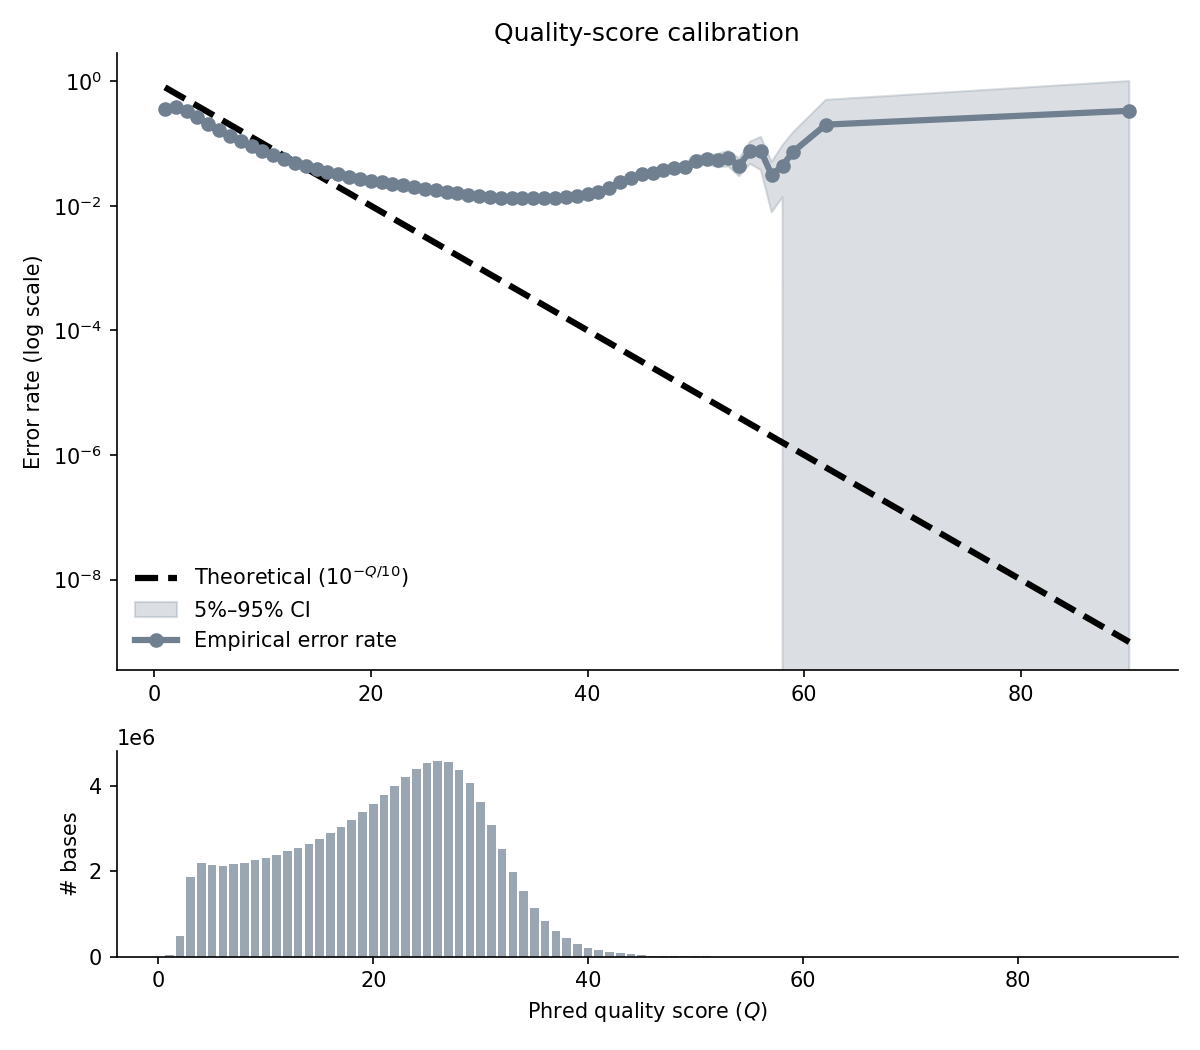
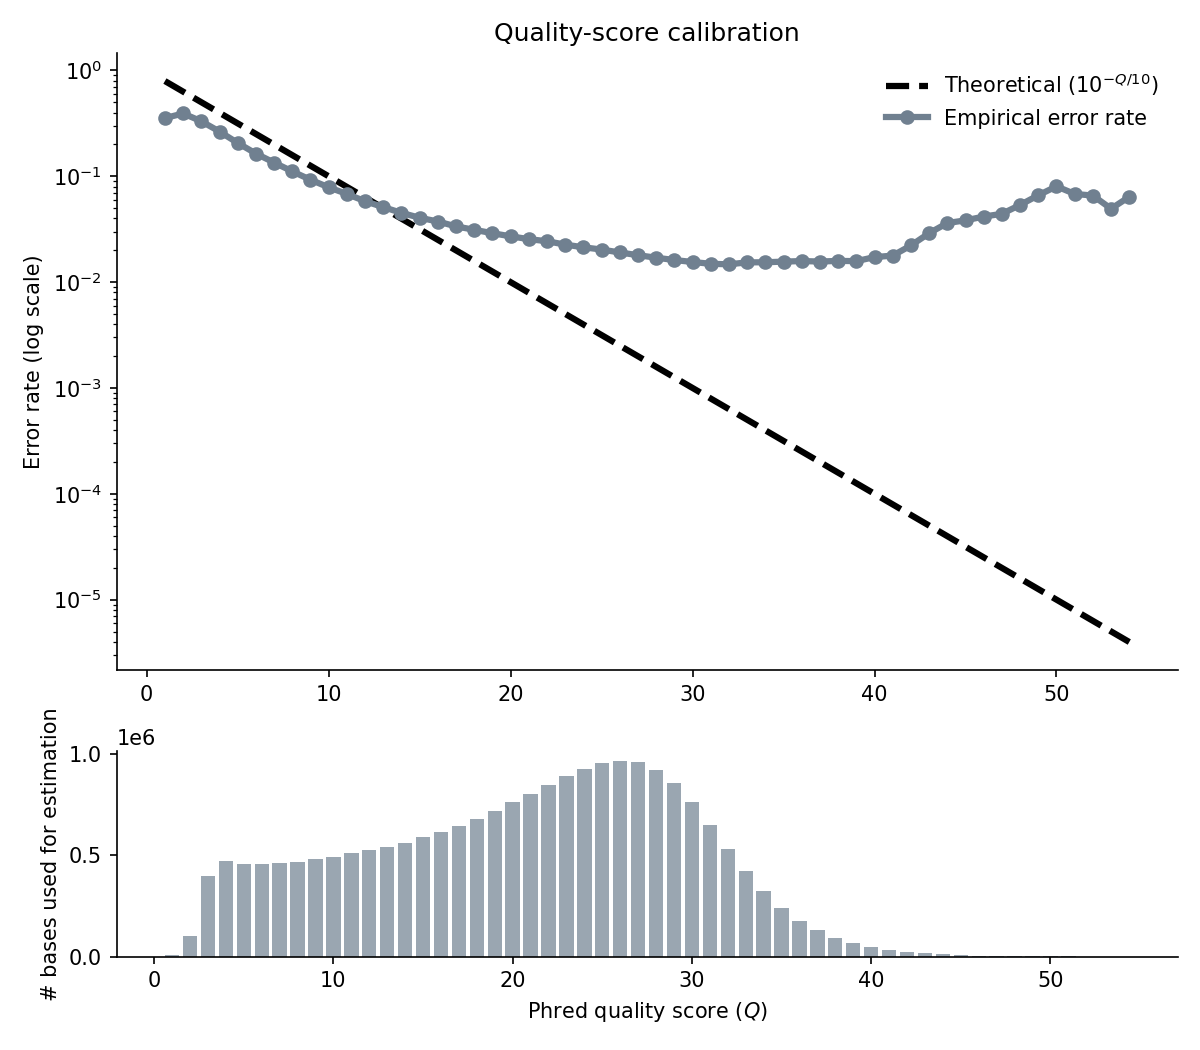
Adjust plotting script

diff --git a/src/summary.rs b/src/summary.rs
@@ -15,6 +15,7 @@ pub struct ErrorSummary {
     pub value_strings: Vec<String>,
     pub homopolymer_lengths: Vec<u32>,
     pub error_counts_per_key: Vec<HashMap<NeighborInfo, u32>>,
+    pub forward_error_counts_per_key: Vec<HashMap<NeighborInfo, u32>>,
     v: usize,
 }
 
@@ -29,6 +30,7 @@ impl ErrorSummary {
             value_strings: Vec::new(),
             homopolymer_lengths: Vec::new(),
             error_counts_per_key: Vec::new(),
+            forward_error_counts_per_key: Vec::new(),
             v,
         }
     }
@@ -99,6 +101,7 @@ impl ErrorSummary {
             .collect();
 
         let mut error_count_map: HashMap<NeighborInfo, u32> = HashMap::new();
+        let mut forward_error_count_map: HashMap<NeighborInfo, u32> = HashMap::new();
         let mut num_neighbors: u32 = 0;
         for (value, info_list) in value_map {
             let count = info_list.len() as u32;
@@ -106,6 +109,8 @@ impl ErrorSummary {
                 if let Some(info) = neighbors.get(value) {
                     *error_count_map.entry(*info).or_insert(0) += count;
                     num_neighbors += count;
+                    let forward_count = info_list.iter().filter(|i| i.is_forward).count() as u32;
+                    *forward_error_count_map.entry(*info).or_insert(0) += forward_count;
                 }
             }
         }
@@ -123,6 +128,7 @@ impl ErrorSummary {
         self.value_strings.push(value_string);
         self.homopolymer_lengths.push(homopolymer_length);
         self.error_counts_per_key.push(error_count_map);
+        self.forward_error_counts_per_key.push(forward_error_count_map);
 
         true
     }
@@ -176,6 +182,7 @@ impl ErrorSummary {
 /// Corresponds to `KVmerStats` field: `error_counts`.
 pub struct ErrorSpectrumSummary {
     pub error_counts: Vec<HashMap<NeighborInfo, u32>>,
+    pub forward_error_counts: Vec<HashMap<NeighborInfo, u32>>,
     v: usize,
 }
 
@@ -183,18 +190,20 @@ impl ErrorSpectrumSummary {
     pub fn new(v: usize) -> Self {
         ErrorSpectrumSummary {
             error_counts: Vec::new(),
+            forward_error_counts: Vec::new(),
             v,
         }
     }
 
     /// Accumulate one key's per-operation error counts.
-    pub fn update(&mut self, error_map: HashMap<NeighborInfo, u32>) {
+    pub fn update(&mut self, error_map: HashMap<NeighborInfo, u32>, forward_error_map: HashMap<NeighborInfo, u32>) {
         self.error_counts.push(error_map);
+        self.forward_error_counts.push(forward_error_map);
     }
 }
 
 impl ErrorSpectrumSummary {
-    pub fn to_csv(&self, indices: Option<&[usize]>) -> String {
+    pub fn to_dependence_on_v_csv(&self, indices: Option<&[usize]>) -> String {
         use std::fmt::Write;
         let all: Vec<usize>;
         let indices = match indices {
@@ -240,6 +249,49 @@ impl ErrorSpectrumSummary {
         }
         out
     }
+
+    pub fn to_csv(&self, indices: Option<&[usize]>) -> String {
+        use std::fmt::Write;
+        let all: Vec<usize>;
+        let indices = match indices {
+            Some(idx) => idx,
+            None => { all = (0..self.error_counts.len()).collect(); &all }
+        };
+        // Aggregate total and forward-strand counts by (op, prev_base, next_base).
+        let mut totals: HashMap<(EditOperation, u8, u8), u64> = HashMap::new();
+        let mut forward_totals: HashMap<(EditOperation, u8, u8), u64> = HashMap::new();
+        for &i in indices {
+            for (ni, &count) in &self.error_counts[i] {
+                *totals.entry((ni.op, ni.prev_base, ni.next_base)).or_insert(0) += count as u64;
+            }
+            for (ni, &count) in &self.forward_error_counts[i] {
+                *forward_totals.entry((ni.op, ni.prev_base, ni.next_base)).or_insert(0) += count as u64;
+            }
+        }
+
+        let mut out = String::new();
+        writeln!(out, "operation,prev_base,next_base,total,forward").unwrap();
+
+        for &op in ALL_OPERATIONS.iter() {
+            for prev_base in 0u8..4 {
+                for next_base in 0u8..4 {
+                    let key = (op, prev_base, next_base);
+                    let total = totals.get(&key).copied().unwrap_or(0);
+                    if total > 0 {
+                        let forward = forward_totals.get(&key).copied().unwrap_or(0);
+                        writeln!(out, "{},{},{},{},{}",
+                            op,
+                            SEQ_TO_CHAR[prev_base as usize],
+                            SEQ_TO_CHAR[next_base as usize],
+                            total,
+                            forward,
+                        ).unwrap();
+                    }
+                }
+            }
+        }
+        out
+    }
 }
 
 /// Phred quality-score calibration statistics.
@@ -263,7 +315,8 @@ impl PhredScoreSummary {
     }
 
     /// Accumulate one key's Phred calibration data.
-    pub fn update(&mut self, consensus: u64, value_size: u8, value_map: &HashMap<u64, Vec<ValueInfo>>) {
+    /// If `first_base_only` is true, only the first base of each value is considered.
+    pub fn update(&mut self, consensus: u64, value_size: u8, value_map: &HashMap<u64, Vec<ValueInfo>>, first_base_only: bool) {
         let mut key_correct: HashMap<u8, u64> = HashMap::new();
         let mut key_error: HashMap<u8, u64> = HashMap::new();
         for (value, info_list) in value_map {
@@ -271,7 +324,8 @@ impl PhredScoreSummary {
                 if info.qual.is_empty() {
                     continue;
                 }
-                for p in 0..value_size as usize {
+                let range = if first_base_only { 0..1 } else { 0..value_size as usize };
+                for p in range {
                     let bit_shift = 2 * (value_size as usize - 1 - p);
                     let value_base     = (value     >> bit_shift) & 0b11;
                     let consensus_base = (consensus >> bit_shift) & 0b11;
@@ -312,7 +366,8 @@ impl ReadPositionSummary {
         }
     }
 
-    pub fn update(&mut self, consensus: u64, value_size: u8, value_map: &HashMap<u64, Vec<ValueInfo>>) {
+    /// If `first_base_only` is true, only the first base of each value is considered.
+    pub fn update(&mut self, consensus: u64, value_size: u8, value_map: &HashMap<u64, Vec<ValueInfo>>, first_base_only: bool) {
         let mut correct_from_start: HashMap<u32, u64> = HashMap::new();
         let mut correct_from_end: HashMap<u32, u64> = HashMap::new();
         let mut error_from_start: HashMap<u32, u64> = HashMap::new();
@@ -322,7 +377,8 @@ impl ReadPositionSummary {
                 if info.qual.is_empty() {
                     continue;
                 }
-                for p in 0..value_size as usize {
+                let range = if first_base_only { 0..1 } else { 0..value_size as usize };
+                for p in range {
                     let bit_shift = 2 * (value_size as usize - 1 - p);
                     let value_base     = (value     >> bit_shift) & 0b11;
                     let consensus_base = (consensus >> bit_shift) & 0b11;

diff --git a/scripts/plot_qscore_calibration.py b/scripts/plot_qscore_calibration.py
@@ -3,7 +3,7 @@ import pandas as pd
 import numpy as np
 
 
-def plot_qscore_calibration(calibration_file, output_file, log_scale=False):
+def plot_qscore_calibration(calibration_file, output_file, log_scale=False, min_coverage=100):
     color_empirical  = 'slategray'
     color_theoretical = 'indianred'
 
@@ -13,10 +13,13 @@ def plot_qscore_calibration(calibration_file, output_file, log_scale=False):
     df = df[(df["num_correct"] + df["num_error"]) > 0].copy()
     df["num_total"] = df["num_correct"] + df["num_error"]
 
+    # Filter by minimum coverage
+    df = df[df["num_total"] >= min_coverage]
+
     q_vals = df["qscore"].values
     emp_rate = df["error_rate"].values
-    ci_lower = df["5th_percentile"].values
-    ci_upper = df["95th_percentile"].values
+    #ci_lower = df["5th_percentile"].values
+    #ci_upper = df["95th_percentile"].values
     counts   = df["num_total"].values
 
     # Theoretical Phred error rate: P(error) = 10^(-Q/10)
@@ -37,8 +40,8 @@ def plot_qscore_calibration(calibration_file, output_file, log_scale=False):
                  linestyle='--', linewidth=3, label="Theoretical ($10^{-Q/10}$)", zorder=3)
 
     # Confidence band
-    ax_main.fill_between(q_vals, ci_lower, ci_upper,
-                         color=color_empirical, alpha=0.25, label="5%–95% CI")
+    #ax_main.fill_between(q_vals, ci_lower, ci_upper,
+    #                     color=color_empirical, alpha=0.25, label="5%–95% CI")
 
     # Empirical line
     ax_main.plot(q_vals, emp_rate, color=color_empirical,
@@ -61,7 +64,7 @@ def plot_qscore_calibration(calibration_file, output_file, log_scale=False):
     ax_hist.bar(q_vals, counts, width=0.8, color=color_empirical, alpha=0.7)
     #ax_hist.set_xlim(q_min, q_max)
     ax_hist.set_xlabel("Phred quality score ($Q$)")
-    ax_hist.set_ylabel("# bases")
+    ax_hist.set_ylabel("# bases used for estimation")
     ax_hist.spines['top'].set_visible(False)
     ax_hist.spines['right'].set_visible(False)
 
@@ -78,11 +81,13 @@ if __name__ == "__main__":
     parser.add_argument("calibration_file",
                         help="CSV produced by `skiver calibrate` "
                              "(columns: qscore, empirical_qscore, num_correct, num_error, "
-                             "error_rate, 5th_percentile, 95th_percentile).")
+                             "error_rate).")
     parser.add_argument("output_file", help="Path to save the output plot image.")
     parser.add_argument("--log", action="store_true",
                         help="Use logarithmic scale for the y-axis (default: False).")
+    parser.add_argument("--min-coverage", type=int, default=100,
+                        help="Minimum coverage for plotting data points (default: 100).")
     args = parser.parse_args()
 
     plot_qscore_calibration(args.calibration_file, args.output_file,
-                            log_scale=args.log)
+                            log_scale=args.log, min_coverage=args.min_coverage)

diff --git a/src/kvmer.rs b/src/kvmer.rs
@@ -224,7 +224,7 @@ impl KVmerSet {
         (key_containment, key_value_containment)
     }
 
-    pub fn get_stats(&self, threshold: u32) -> KVmerStats {
+    pub fn get_stats(&self, threshold: u32, first_base_only: bool) -> KVmerStats {
         let mut keys: Vec<u64> = Vec::new();
         let mut consensus_values: Vec<u64> = Vec::new();
         let mut error_summary = ErrorSummary::new(self.value_size as usize);
@@ -254,9 +254,9 @@ impl KVmerSet {
             if error_summary.update(*key, max_value, self.key_size, self.value_size, self.bidirectional, value_map) {
                 keys.push(*key);
                 consensus_values.push(max_value);
-                error_spectrum.update(error_summary.error_counts_per_key.last().unwrap().clone());
-                phred_summary.update(max_value, self.value_size, value_map);
-                read_position_summary.update(max_value, self.value_size, value_map);
+                error_spectrum.update(error_summary.error_counts_per_key.last().unwrap().clone(), error_summary.forward_error_counts_per_key.last().unwrap().clone());
+                phred_summary.update(max_value, self.value_size, value_map, first_base_only);
+                read_position_summary.update(max_value, self.value_size, value_map, first_base_only);
             }
         }
 
@@ -273,7 +273,7 @@ impl KVmerSet {
     }
 
     #[allow(unused)]
-    pub fn get_stats_with_reference(&self, threshold: u32, reference: &KVmerSet) -> KVmerStats {
+    pub fn get_stats_with_reference(&self, threshold: u32, reference: &KVmerSet, first_base_only: bool) -> KVmerStats {
         let mut keys: Vec<u64> = Vec::new();
         let mut consensus_values: Vec<u64> = Vec::new();
         let mut error_summary = ErrorSummary::new(self.value_size as usize);
@@ -311,9 +311,9 @@ impl KVmerSet {
             if error_summary.update(*key, consensus_value, self.key_size, self.value_size, self.bidirectional, value_map) {
                 keys.push(*key);
                 consensus_values.push(consensus_value);
-                error_spectrum.update(error_summary.error_counts_per_key.last().unwrap().clone());
-                phred_summary.update(consensus_value, self.value_size, value_map);
-                read_position_summary.update(consensus_value, self.value_size, value_map);
+                error_spectrum.update(error_summary.error_counts_per_key.last().unwrap().clone(), error_summary.forward_error_counts_per_key.last().unwrap().clone());
+                phred_summary.update(consensus_value, self.value_size, value_map, first_base_only);
+                read_position_summary.update(consensus_value, self.value_size, value_map, first_base_only);
             }
         }
 

diff --git a/src/cmdline.rs b/src/cmdline.rs
@@ -100,7 +100,7 @@ pub struct AnalyzeArgs {
     //#[clap(short = 't', long = "threads", default_value_t = 4, help_heading = "ALGORITHM", help = "Number of threads.")]
     //pub threads: usize,
 
-    #[clap(short = 'o', long = "output-prefix", help_heading = "OUTPUT", help = "Output prefix. When set, writes <prefix>.csv (analysis), <prefix>.summary_error.csv, <prefix>.summary_error_spectrum.csv, <prefix>.summary_phred.csv, and <prefix>.summary_read_position.csv.")]
+    #[clap(short = 'o', long = "output-prefix", help_heading = "OUTPUT", help = "Output prefix. When set, writes <prefix>.csv (analysis), <prefix>.summary_error.csv, <prefix>.summary_error_spectrum.csv, <prefix>.summary_error_spectrum_dependence_on_v.csv, <prefix>.summary_phred.csv, and <prefix>.summary_read_position.csv.")]
     pub output_prefix: Option<String>,
 
     #[clap(long, default_value_t = String::from("sum_ratio"), hidden = true, help = "One of 'slope', 'linear_fit', 'ratio_mean', 'sum_ratio'.")]
@@ -108,6 +108,9 @@ pub struct AnalyzeArgs {
 
     #[clap(long, default_value_t = String::from("weibull"), help = "Model used to fit the hazard rates vs. t. Should be one of 'constant' (assuming that the hazard rate is constant over t), 'weibull' (assuming T follows a discrete Weibull distribution).")]
     pub hazard_model: String,
+
+    #[clap(long = "first-base-only", hidden = true, help = "In ReadPositionSummary and PhredScoreSummary, consider only the first base of each value instead of all bases up to an error.")]
+    pub first_base_only: bool,
 }
 
 #[derive(Args, Default)]

diff --git a/src/analyze.rs b/src/analyze.rs
@@ -52,11 +52,11 @@ pub fn analyze(args: AnalyzeArgs) {
         reference_kvmer_set.add_file_to_kvmer_set(reference, args.c, args.trim_front, args.trim_back);
         info!("Loaded reference file: {}", reference);
 
-        stats = kvmer_set.get_stats_with_reference(lower_bound, &reference_kvmer_set);
+        stats = kvmer_set.get_stats_with_reference(lower_bound, &reference_kvmer_set, args.first_base_only);
     } else {
         let lower_bound = args.lower_bound.unwrap_or(10);
         //println!("Error rate: {}", kvmer_set.get_stats(args.threshold));
-        stats = kvmer_set.get_stats(lower_bound);
+        stats = kvmer_set.get_stats(lower_bound, args.first_base_only);
     }
     // if reference is set, the filter should be disabled
     // [FIXME] enable --use-all by default

diff --git a/src/inference.rs b/src/inference.rs
@@ -900,6 +900,7 @@ impl ErrorAnalyzer {
 
             fs::write(format!("{}.kvmer.csv", prefix), stats.error_summary.to_csv(Some(&indices))).unwrap();
             fs::write(format!("{}.summary_error_spectrum.csv", prefix), stats.error_spectrum.to_csv(Some(&indices))).unwrap();
+            fs::write(format!("{}.summary_error_spectrum_dependence_on_v.csv", prefix), stats.error_spectrum.to_dependence_on_v_csv(Some(&indices))).unwrap();
             fs::write(format!("{}.summary_phred.csv", prefix), stats.phred_summary.to_csv(Some(&indices))).unwrap();
             fs::write(format!("{}.summary_read_position.csv", prefix), stats.read_position_summary.to_csv(Some(&indices))).unwrap();
         }

diff --git a/scripts/plot_read_position.py b/scripts/plot_read_position.py
@@ -34,7 +34,7 @@ def plot_read_position(read_position_file, output_file, num_bases=100):
         ax_line.plot(x, y, color=color, linewidth=1.5, alpha=0.6, label="Error rate")
 
         # Smoothed line (uniform filter, window = 5% of num_bases, min 3)
-        window = max(3, num_bases // 5)
+        window = max(3, num_bases // 10)
         if len(y) >= window:
             y_smooth = uniform_filter1d(y, size=window)
             ax_line.plot(x, y_smooth, color=color_smooth, linewidth=2.5,
